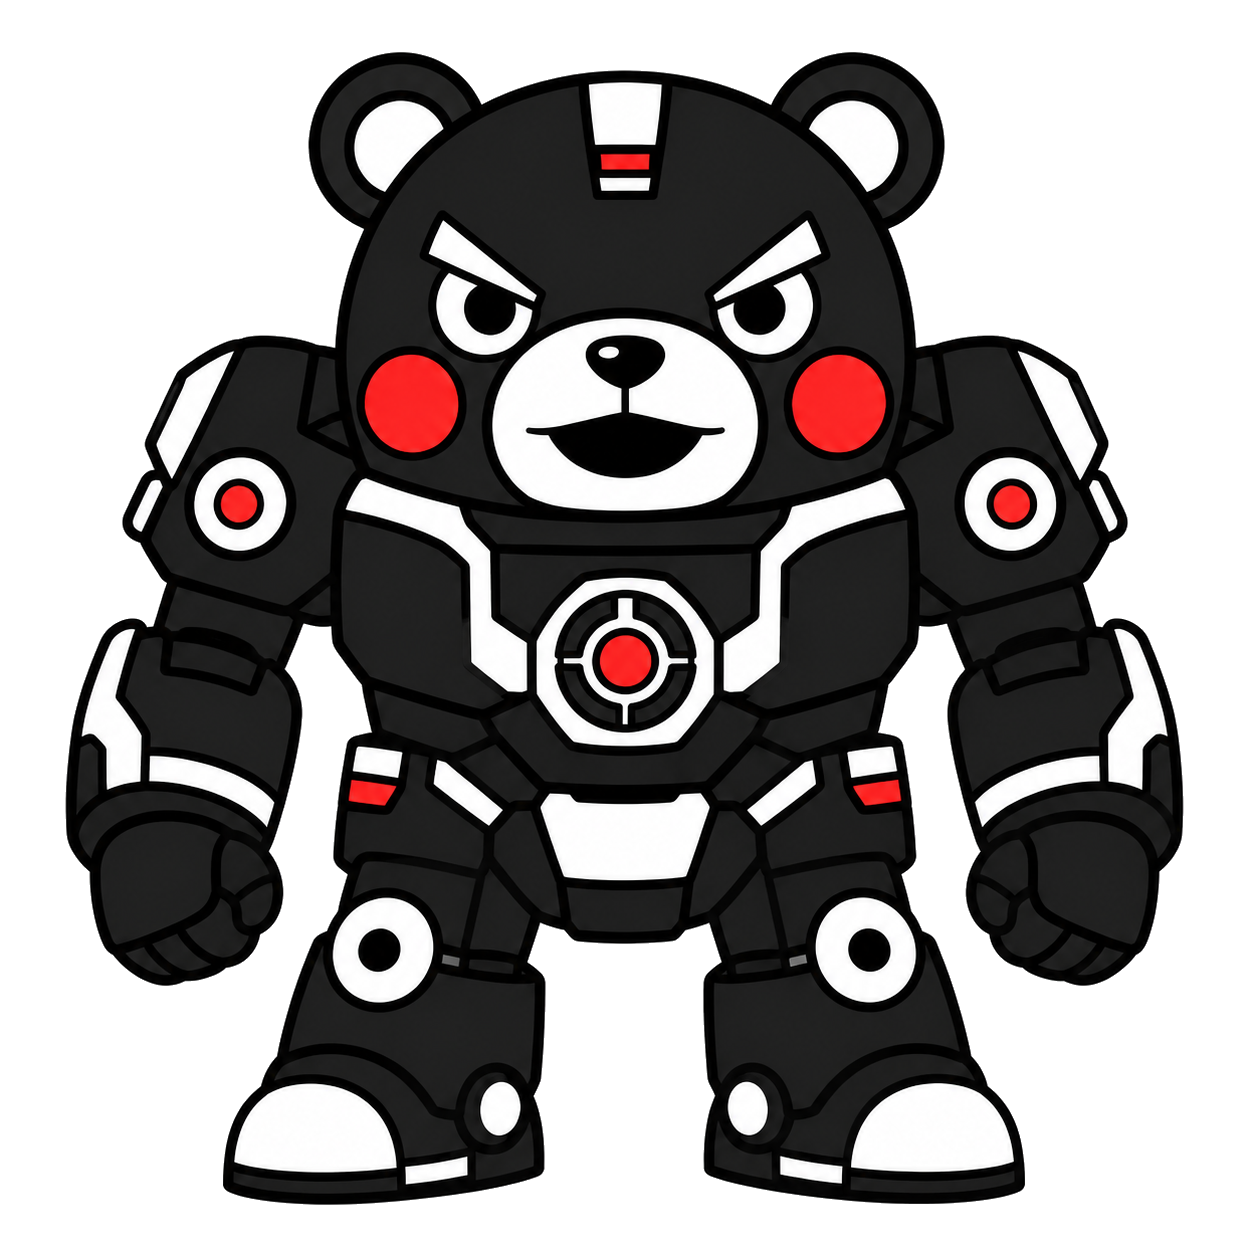
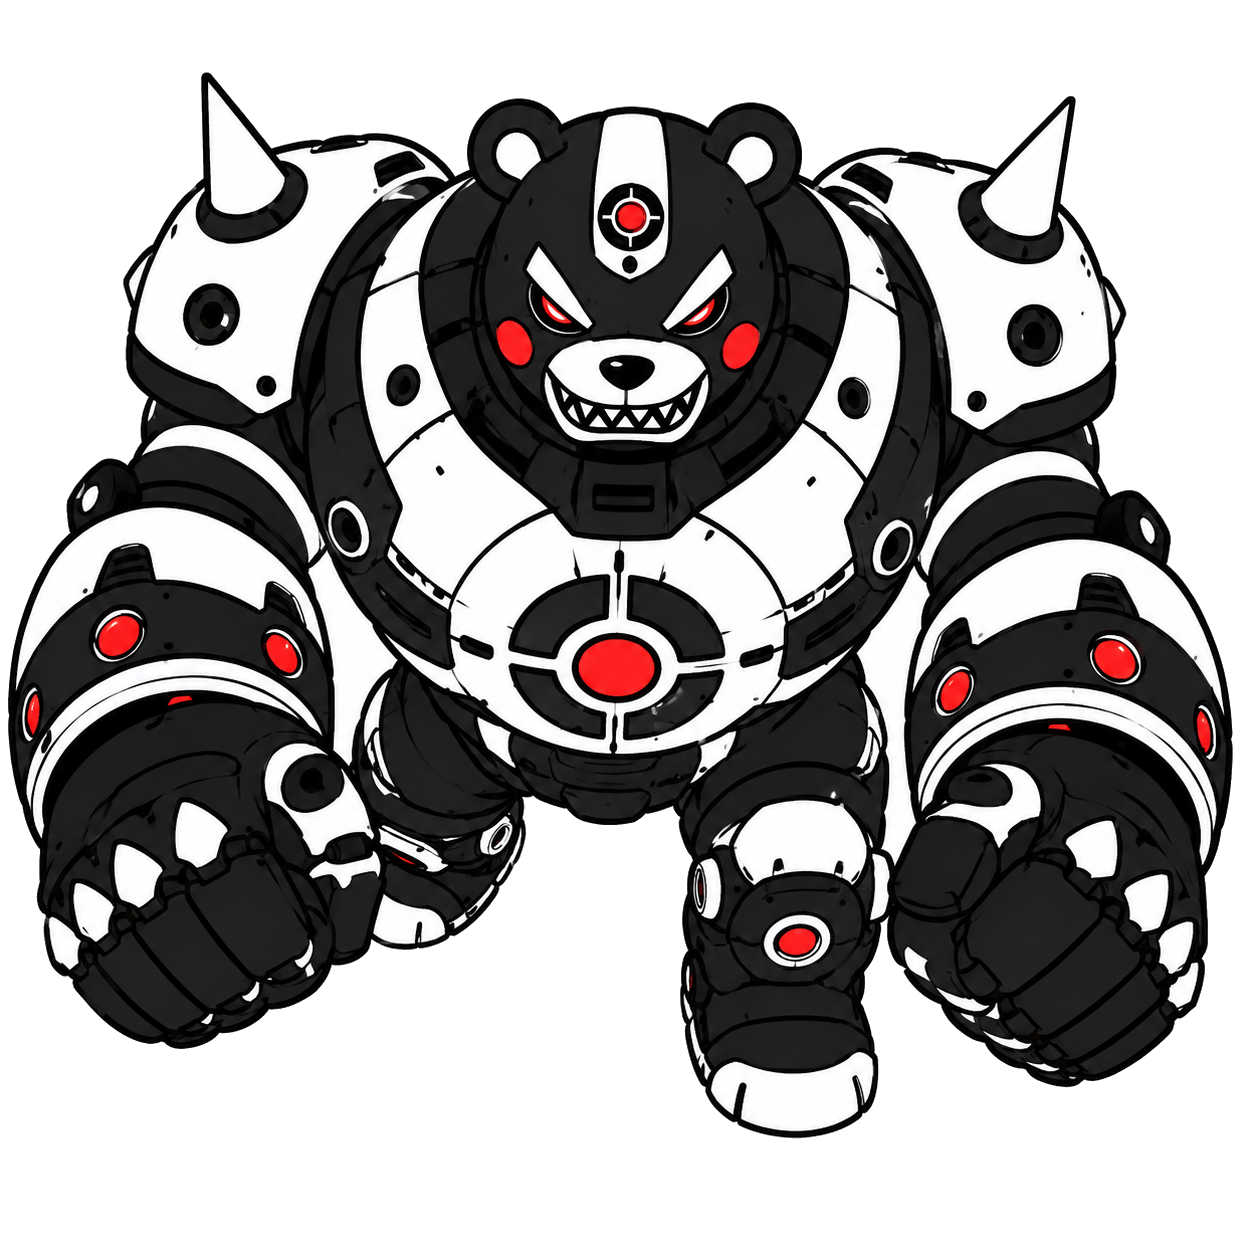
feat: ボス4段階を個性化・弾色多色化 v0.12.0
- サイズ一貫性: 両目間隔を基準に表示を150→240→285→200(成長→凝縮)。
  当たり判定も表示に連動(大きいほど当てやすい=難易度差)。BOSS_PHASESに集約
- HP係数を[1.2,1.7,2.3,1.9]に(④を③より柔く)
- 動きの個性: ①遅い単調 ②重く小刻み ③中速+突進 ④ランダムワープ(erratic)
- 攻撃の個性: ①狙い扇 ②下向き8way+狙い ③下向き12way+3way+火の玉 ④スパイラル+高速狙い
- 全方位リング撤廃→下向き扇(fanDown 0.08π-0.92π)。上向きの無駄弾を廃止(検証で0確認)
- 弾色を多色化: e_bulletを白オーブe_orbにしてsetTint。
  ボス=赤/紫/橙/シアン、通常敵は恐竜=緑・陣太鼓=琥珀・他=赤
- 差し替えボス画像4枚(RGB白背景)をremove_bgで透過抜き

diff --git a/js/scenes/GameScene.js b/js/scenes/GameScene.js
@@ -301,11 +301,11 @@ class GameScene extends Phaser.Scene {
   }
 
   _texEnemyBullet() {
-    // 禍々しい赤オーブ（グロー付き）
-    this._gTex('e_bullet', 14, 14, g => {
-      g.fillStyle(0xff1744, 0.28).fillCircle(7, 7, 7);   // 外グロー
-      g.fillStyle(0xff3060, 0.95).fillCircle(7, 7, 4.5); // 本体
-      g.fillStyle(0xffd9d9, 0.95).fillCircle(5.6, 5.6, 1.8); // ハイライト
+    // 白い発光オーブ。色は setTint で付ける（フェーズ/敵ごとに弾色を変えるため）。
+    this._gTex('e_orb', 14, 14, g => {
+      g.fillStyle(0xffffff, 0.28).fillCircle(7, 7, 7);   // 外グロー
+      g.fillStyle(0xffffff, 0.95).fillCircle(7, 7, 4.5); // 本体
+      g.fillStyle(0xffffff, 1).fillCircle(5.6, 5.6, 1.8); // ハイライト
     });
   }
 
@@ -1017,7 +1017,8 @@ class GameScene extends Phaser.Scene {
   _startBoss(phaseNum) {
     this.bossActive = true;
     this.mode = 'boss';
-    this._bossY = 158; // HPゲージに被らない待機位置（やや上）
+    const cfg = BOSS_PHASES[phaseNum - 1];
+    this._bossY = cfg.y; // フェーズごとの待機位置（大きい形態ほどやや下げてUIとの被りを緩和）
     Object.values(this.waveTimers).forEach(t => t && t.remove());
     this.enemies.clear(true, true);
 
@@ -1044,12 +1045,15 @@ class GameScene extends Phaser.Scene {
 
     this.boss = this.physics.add.sprite(GW / 2, -120, 'boss' + phaseNum);
     this.boss.setDepth(9);
-    this.boss.setDisplaySize(172, 172);
-    this.boss.body.setSize(this.boss.width * 0.62, this.boss.height * 0.56);
-    this.boss.body.setOffset(this.boss.width * 0.19, this.boss.height * 0.22);
+    this.boss.setDisplaySize(cfg.display, cfg.display); // フェーズごとの表示サイズ
+    // 当たり判定は表示比で中央配置（表示に連動して自動スケール＝大きい形態ほど当てやすい）
+    const fw = this.boss.width, fh = this.boss.height;
+    this.boss.body.setSize(fw * cfg.hitW, fh * cfg.hitH);
+    this.boss.body.setOffset(fw * (1 - cfg.hitW) / 2, fh * (1 - cfg.hitH) / 2);
     this.boss.bossHP = Math.round(this.bossMaxHP * this.stage.bossHpFactors[phaseNum - 1]);
     this.boss.bossMaxHP = this.boss.bossHP; // このボスの最大HP（バー用）
     this.boss.phase = phaseNum;
+    this.boss.cfg = cfg;
     this.boss.elapsed = 0;
     this.boss.entering = true; // 降臨中は_updateBossで動かさない
     this.bossGroup.add(this.boss);
@@ -1068,6 +1072,7 @@ class GameScene extends Phaser.Scene {
         this.boss.lastShot = now;
         this.boss.lastFireball = now;
         this.boss.lastCharge = now;
+        this.boss.lastDash = now;
         this._bossStartAt = now; // 速攻ボーナス計測開始
       },
     });
@@ -1083,51 +1088,78 @@ class GameScene extends Phaser.Scene {
     // 同じ時刻・同じ座標から連続的に再開できる（止めないと時間だけ進んで位置が飛ぶ）。
     if (b.charging) return;
     b.elapsed += delta;
+    const cfg = b.cfg;
 
-    const freq = b.phase === 1 ? 0.8 : b.phase === 2 ? 1.1 : b.phase === 3 ? 1.4 : 1.7;
-    const amp  = b.phase >= 3 ? 150 : 120;
-    b.x = GW / 2 + Math.sin(b.elapsed / 1000 * freq) * amp;
-    b.y = b.phase < 3 ? this._bossY : (this._bossY - 8) + Math.sin(b.elapsed / 700) * 18;
-
-    const shootInterval = (b.phase === 1 ? 2200 : b.phase === 2 ? 1700 : b.phase === 3 ? 1300 : 1000) * this.diff.shootIntervalMul;
-    if (time - b.lastShot > shootInterval) {
-      b.lastShot = time;
-      this._bossShoot(b.phase);
+    if (cfg.move === 'erratic') {
+      // ④変則的: 一定間隔でランダム位置へ高速ダッシュ（予測不能）。合間は静止して撃つ
+      if (!b.dashing && time - b.lastDash > cfg.dashEvery) {
+        b.lastDash = time;
+        b.dashing = true;
+        const tx = Phaser.Math.Between(80, GW - 80);
+        const ty = this._bossY + Phaser.Math.Between(-20, 40);
+        this.tweens.add({
+          targets: b, x: tx, y: ty, duration: 360, ease: 'Back.easeOut',
+          onComplete: () => { if (b && b.active) b.dashing = false; },
+        });
+      }
+    } else {
+      // ①②③: 横往復（重い形態は遅く小刻み）。③は上下ゆれで生々しく
+      b.x = GW / 2 + Math.sin(b.elapsed / 1000 * cfg.freq) * cfg.amp;
+      b.y = cfg.bob ? (this._bossY - 8) + Math.sin(b.elapsed / 700) * 16 : this._bossY;
     }
-    // 火の玉: 大きくゆっくり・自機狙い。②以降で登場し、④が最も頻繁
-    if (b.phase >= 2 && time - b.lastFireball > (2600 - b.phase * 300)) {
+
+    if (time - b.lastShot > cfg.shootInterval * this.diff.shootIntervalMul) {
+      b.lastShot = time;
+      this._bossShoot(b);
+    }
+    if (cfg.fireball && time - b.lastFireball > 2200) {
       b.lastFireball = time;
       this._bossFireball();
     }
-    if (b.phase >= 3 && time - b.lastCharge > BALANCE.bossChargeInterval) {
+    if (cfg.charge && time - b.lastCharge > BALANCE.bossChargeInterval) {
       b.lastCharge = time;
       this._bossCharge();
     }
   }
 
-  _bossShoot(phase) {
+  _bossShoot(b) {
     if (!this.boss) return;
-    const bx = this.boss.x, by = this.boss.y + 50;
-    if (phase === 1) {
-      for (let i = -2; i <= 2; i++) {
-        const a = Math.PI / 2 + i * 0.18;
-        this._spawnEnemyBullet(bx, by, Math.cos(a) * 220, Math.sin(a) * 220);
+    const cfg = b.cfg, col = cfg.bulletColor;
+    const bx = b.x, by = b.y + b.displayHeight * 0.26; // 砲口は体格に応じて下げる
+
+    // 下向き扇（上方向の弾は無意味なので下半分＋左右のみに配分）
+    const fanDown = (n, sp) => {
+      for (let i = 0; i < n; i++) {
+        const t = n === 1 ? 0.5 : i / (n - 1);
+        const a = Math.PI * (0.08 + 0.84 * t); // 0.08π〜0.92π＝右下〜真下〜左下
+        this._spawnEnemyBullet(bx, by, Math.cos(a) * sp, Math.sin(a) * sp, col);
       }
-    } else if (phase === 2) {
-      for (let i = 0; i < 8; i++) {
-        const a = (i / 8) * Math.PI * 2;
-        this._spawnEnemyBullet(bx, by, Math.cos(a) * 180, Math.sin(a) * 180);
+    };
+    // 自機狙い（念のため下向きに制限）
+    const aim = (spread, count, sp) => {
+      let pa = Phaser.Math.Angle.Between(bx, by, this.player.x, this.player.y);
+      pa = Phaser.Math.Clamp(pa, Math.PI * 0.12, Math.PI * 0.88);
+      for (let i = 0; i < count; i++) {
+        const t = count === 1 ? 0 : (i / (count - 1) - 0.5) * 2;
+        const a = pa + t * spread;
+        this._spawnEnemyBullet(bx, by, Math.cos(a) * sp, Math.sin(a) * sp, col);
       }
-      const pa = Phaser.Math.Angle.Between(bx, by, this.player.x, this.player.y);
-      this._spawnEnemyBullet(bx, by, Math.cos(pa) * 260, Math.sin(pa) * 260);
-    } else {
-      for (let i = 0; i < 12; i++) {
-        const a = (i / 12) * Math.PI * 2;
-        this._spawnEnemyBullet(bx, by, Math.cos(a) * 200, Math.sin(a) * 200);
-      }
-      for (let s = -1; s <= 1; s++) {
-        const pa = Phaser.Math.Angle.Between(bx, by, this.player.x, this.player.y) + s * 0.15;
-        this._spawnEnemyBullet(bx, by, Math.cos(pa) * 280, Math.sin(pa) * 280);
+    };
+
+    switch (cfg.pattern) {
+      case 'aim':       aim(0.34, 5, 220); break;
+      case 'fan8aim':   fanDown(8, 180); aim(0, 1, 260); break;
+      case 'fan12aim3': fanDown(12, 200); aim(0.3, 3, 260); break;
+      case 'spiral': {
+        // 下向きの扇を左右にスイープ＋高速狙い弾（変則的で読みにくい）
+        b.spiralPhase = (b.spiralPhase || 0) + 1;
+        const center = Math.PI / 2 + Math.sin(b.spiralPhase * 0.5) * Math.PI * 0.42;
+        for (const d of [-0.28, 0, 0.28]) {
+          const a = Phaser.Math.Clamp(center + d, Math.PI * 0.06, Math.PI * 0.94); // 下向き限定
+          this._spawnEnemyBullet(bx, by, Math.cos(a) * 210, Math.sin(a) * 210, col);
+        }
+        aim(0, 1, 330); // 速い狙い弾
+        break;
       }
     }
   }
@@ -1136,7 +1168,7 @@ class GameScene extends Phaser.Scene {
   _bossFireball() {
     const b = this.boss;
     if (!b) return;
-    const bx = b.x, by = b.y + 50;
+    const bx = b.x, by = b.y + b.displayHeight * 0.26;
     const a = Phaser.Math.Angle.Between(bx, by, this.player.x, this.player.y);
     const speed = BALANCE.fireballSpeed;
     const fb = this.enemyBullets.create(bx, by, 'boss_fireball');
@@ -1162,9 +1194,10 @@ class GameScene extends Phaser.Scene {
     });
   }
 
-  _spawnEnemyBullet(x, y, vx, vy) {
-    const b = this.enemyBullets.create(x, y, 'e_bullet');
+  _spawnEnemyBullet(x, y, vx, vy, color) {
+    const b = this.enemyBullets.create(x, y, 'e_orb');
     b.setDepth(7);
+    b.setTint(color == null ? 0xff3060 : color); // 弾色（未指定は赤）
     b.setVelocity(vx, vy);
     b.body.setSize(6, 6);
     b.body.setOffset((b.width - 6) / 2, (b.height - 6) / 2); // 見た目の中心に判定を合わせる
@@ -1404,7 +1437,8 @@ class GameScene extends Phaser.Scene {
     if (e.y > this.player.y - 30) return;
     let a = Phaser.Math.Angle.Between(e.x, e.y, this.player.x, this.player.y);
     a = Phaser.Math.Clamp(a, Math.PI * 0.28, Math.PI * 0.72); // 下向き±約40°に制限
-    this._spawnEnemyBullet(e.x, e.y + offY, Math.cos(a) * speed, Math.sin(a) * speed);
+    const col = ENEMY_BULLET_COLOR[e.enemyType]; // 敵種で弾色を変える（未定義は赤）
+    this._spawnEnemyBullet(e.x, e.y + offY, Math.cos(a) * speed, Math.sin(a) * speed, col);
   }
 
   _updateUI() {

diff --git a/js/config.js b/js/config.js
@@ -51,7 +51,7 @@ function mkButton(scene, x, y, label, opts) {
   return cont;
 }
 
-const VERSION = 'v0.11.0';
+const VERSION = 'v0.12.0';
 
 // カラーパレット
 const C = {
@@ -122,8 +122,31 @@ const STAGE_WAVES = [
     { type: 'jintaiko', count: 4, interval: 1800, startAt: 3600 } ],
 ];
 
-// 各ボス(①②③④)のHP係数（難易度のbossHPに乗算・段階的に強化）
-const BOSS_HP_FACTORS = [1.2, 1.6, 2.0, 2.6];
+// 各ボス(①②③④)のHP係数（難易度のbossHPに乗算）。④は③より柔らかい(凝縮=手数勝負)。
+const BOSS_HP_FACTORS = [1.2, 1.7, 2.3, 1.9];
+
+// ボス4段階のサイズ・動き・攻撃の個性（画像は同寸だが、両目間隔を基準に
+// 「実サイズは成長→凝縮」に見えるよう表示倍率を調整。当たり判定も表示に連動）。
+// display=表示px / y=待機Y / hitW,hitH=当たり判定の表示比 / bulletColor=弾色(白オーブをtint)
+// move: 'sine'(横往復) | 'erratic'(ランダムワープ) / freq,amp=正弦運動 / bob=上下ゆれ
+// pattern: 'aim'(狙い扇) | 'fan8aim' | 'fan12aim3' | 'spiral' / fireball,charge=有無
+const BOSS_PHASES = [
+  { display: 150, y: 150, hitW: 0.60, hitH: 0.55, bulletColor: 0xff4060,
+    move: 'sine', freq: 0.7, amp: 100, shootInterval: 2000,
+    pattern: 'aim', fireball: false, charge: false },                    // ① シンプル・単調
+  { display: 240, y: 165, hitW: 0.52, hitH: 0.50, bulletColor: 0xb45cff,
+    move: 'sine', freq: 0.5, amp: 72, shootInterval: 1950,
+    pattern: 'fan8aim', fireball: true, charge: false },                 // ② 重いが硬い・単調
+  { display: 285, y: 172, hitW: 0.44, hitH: 0.46, bulletColor: 0xff8a3d,
+    move: 'sine', freq: 1.0, amp: 130, bob: true, shootInterval: 1250,
+    pattern: 'fan12aim3', fireball: true, charge: true },                // ③ 重くて硬い・攻撃増
+  { display: 200, y: 158, hitW: 0.50, hitH: 0.52, bulletColor: 0x40e0ff,
+    move: 'erratic', dashEvery: 1300, shootInterval: 1050,
+    pattern: 'spiral', fireball: true, charge: false },                  // ④ 柔いが変則的
+];
+
+// 通常敵の弾色（赤の偏りを解消。未指定は赤）
+const ENEMY_BULLET_COLOR = { kyoryu: 0x66ff66, jintaiko: 0xffb02e };
 
 // ステージ定義（将来の九州各県拡張はここに要素を足すだけにする）
 const STAGES = [

diff --git a/index.html b/index.html
@@ -27,13 +27,13 @@
   <!-- 共有ランキング用 Firebase（Nmokuと同じプロジェクトを流用） -->
   <script src="https://www.gstatic.com/firebasejs/12.15.0/firebase-app-compat.js"></script>
   <script src="https://www.gstatic.com/firebasejs/12.15.0/firebase-database-compat.js"></script>
-  <script src="js/config.js?v=0.11.0"></script>
-  <script src="js/sfx.js?v=0.11.0"></script>
-  <script src="js/remote.js?v=0.11.0"></script>
-  <script src="js/scenes/TitleScene.js?v=0.11.0"></script>
-  <script src="js/scenes/GameScene.js?v=0.11.0"></script>
-  <script src="js/scenes/GameOverScene.js?v=0.11.0"></script>
-  <script src="js/scenes/LeaderboardScene.js?v=0.11.0"></script>
-  <script src="js/game.js?v=0.11.0"></script>
+  <script src="js/config.js?v=0.12.0"></script>
+  <script src="js/sfx.js?v=0.12.0"></script>
+  <script src="js/remote.js?v=0.12.0"></script>
+  <script src="js/scenes/TitleScene.js?v=0.12.0"></script>
+  <script src="js/scenes/GameScene.js?v=0.12.0"></script>
+  <script src="js/scenes/GameOverScene.js?v=0.12.0"></script>
+  <script src="js/scenes/LeaderboardScene.js?v=0.12.0"></script>
+  <script src="js/game.js?v=0.12.0"></script>
 </body>
 </html>

diff --git a/DEVNOTES.md b/DEVNOTES.md
@@ -133,6 +133,7 @@ EASY / NORMAL / HARD / EXTREME の4段階。選択は `registry` に保存しリ
 | v0.3.0 | 共有ランキング導入(Firebase Realtime Database・Nmokuと同一プロジェクト流用)。オンライン優先＋オフラインはローカル表示。**要: Firebaseルールで kyushu_shooter パス許可** |
 | v0.3.1 | 画像追加: 背景を空撮2(火山)に差替 / ボス3フェーズを画像化(boss_fase1-3、HP割合で切替) / 敵の辛子蓮根・半導体(IC)を画像化し適切サイズに |
 | v0.3.2 | 画像の透過修正: ボス3枚・敵2枚が白背景の焼き込み(RGB)だったため、numpyで縁から繋がった白領域のみ透過抜きしRGBA化（被写体内部の白は保持） |
+| v0.12.0 | ボス4段階を個性化(BOSS_PHASES): 表示サイズを両目間隔基準で150→240→285→200(成長→凝縮)・当たり判定も表示連動・HP係数[1.2,1.7,2.3,1.9](④<③)。動き=①遅い単調/②重く小刻み/③中速+突進/④ランダムワープ。攻撃=①狙い扇/②下向き8way+狙い/③下向き12way+3way+火の玉/④スパイラル+高速狙い。**全方位リング撤廃→下向き扇(0.08π-0.92π)**で上向き弾を廃止。弾色をe_orb(白)のtintで多色化(ボス=赤/紫/橙/シアン、恐竜=緑/陣太鼓=琥珀)。差し替えボス画像4枚を透過抜き |
 | v0.11.0 | Mode7遠近背景を**デフォルト化**(実機確認済み)。?m7=gridは格子デバッグ、?m7=flatで旧平面に戻せる避難ハッチを用意 |
 | v0.10.1 | Mode7ストリップのガタツキ対策: 帯を40本(15px)から120本(5px)に細分化。帯境界の拡大率ジャンプが1/3になり、縦線(道路等)の階段状の段差が大幅に減少。描画面積は不変でコスト増はドローコール分のみ |
 | v0.10.0 | Mode7再挑戦=**横ストリップ方式**(プロトタイプ・URLパラメータで有効化): 画面を40本の横帯に分割し、帯ごとに通常TileSpriteの拡大率を変えて遠近を出す(消失点yh=-400、V(y)=K/(0-yh)-K/(y-yh)で上=圧縮)。**全て通常2Dスプライトなので高DPR端末でも安全**(v0.9.0のPlane失敗=Meshがカメラズーム非対応、の対策)。`?m7=grid`で格子デバッグ表示・`?m7=photo`で写真、無指定は従来の平面。プレビュー検証で格子・写真とも正しい遠近を確認済み |
